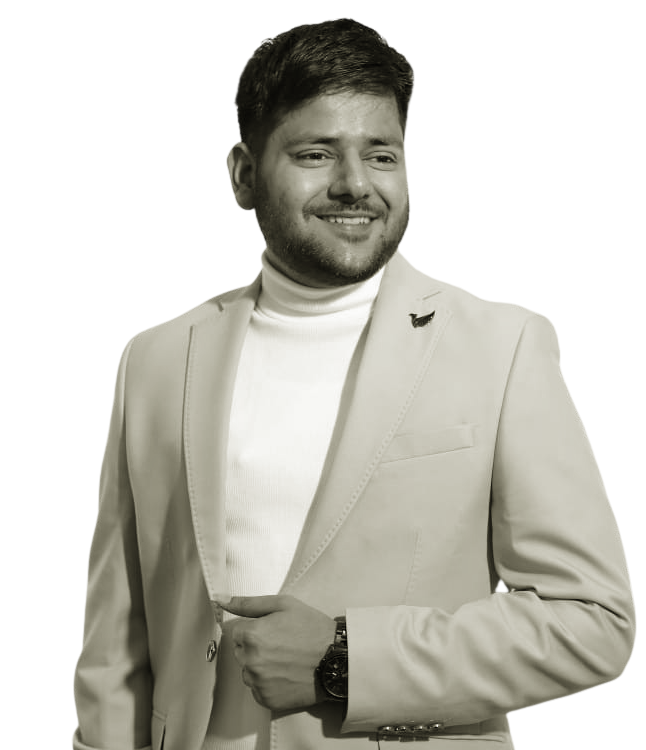
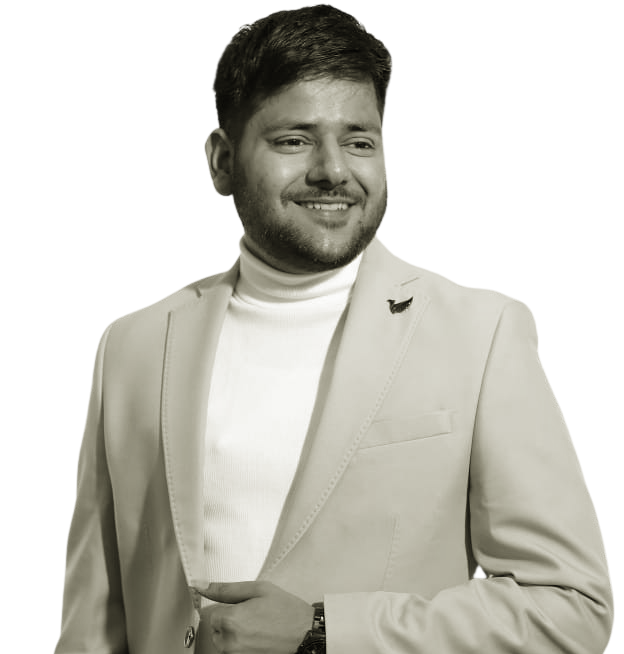
Team update - temp (#13)
* team page update - temp

diff --git a/src/ui/components/team-card.tsx b/src/ui/components/team-card.tsx
@@ -38,9 +38,7 @@ const TeamCard: React.FC<TeamCardProps> = ({
       }}
       className="flex flex-col items-center p-6 md:p-8 lg:p-10"
     >
-      <div className="mb-3 md:mb-4 lg:mb-5 flex justify-center">
-        {/* CHANGED: Shrunk image size and adjusted for consistent aspect ratio and no cropping. Restore previous by uncommenting below. */}
-        {/*
+      <div className="mb-3 md:mb-4 lg:mb-5">
         <Image
           src={image}
           alt={name}
@@ -51,19 +49,6 @@ const TeamCard: React.FC<TeamCardProps> = ({
             height: "auto",
           }}
           className="rounded-lg transition-transform duration-300 hover:scale-105 object-cover"
-          priority={index < 3}
-        />
-        */}
-        <Image
-          src={image}
-          alt={name}
-          width={160}
-          height={160}
-          style={{
-            width: "160px",
-            height: "160px",
-          }}
-          className="rounded-lg transition-transform duration-300 hover:scale-105 object-contain"
           priority={index < 3}
         />
       </div>
@@ -85,7 +70,8 @@ const TeamCard: React.FC<TeamCardProps> = ({
         )}
       </div>
       <p className="text-sm md:text-lg text-brown-600 text-nowrap">{role}</p>
-      <p className="text-xs md:text-base text-brown-600 text-nowrap">{edu_backgrnd}</p>
+      <p className="text-[10px] md:text-[16px] text-brown-600 text-nowrap">{edu_backgrnd}</p>
+
     </motion.div>
   );
 };
